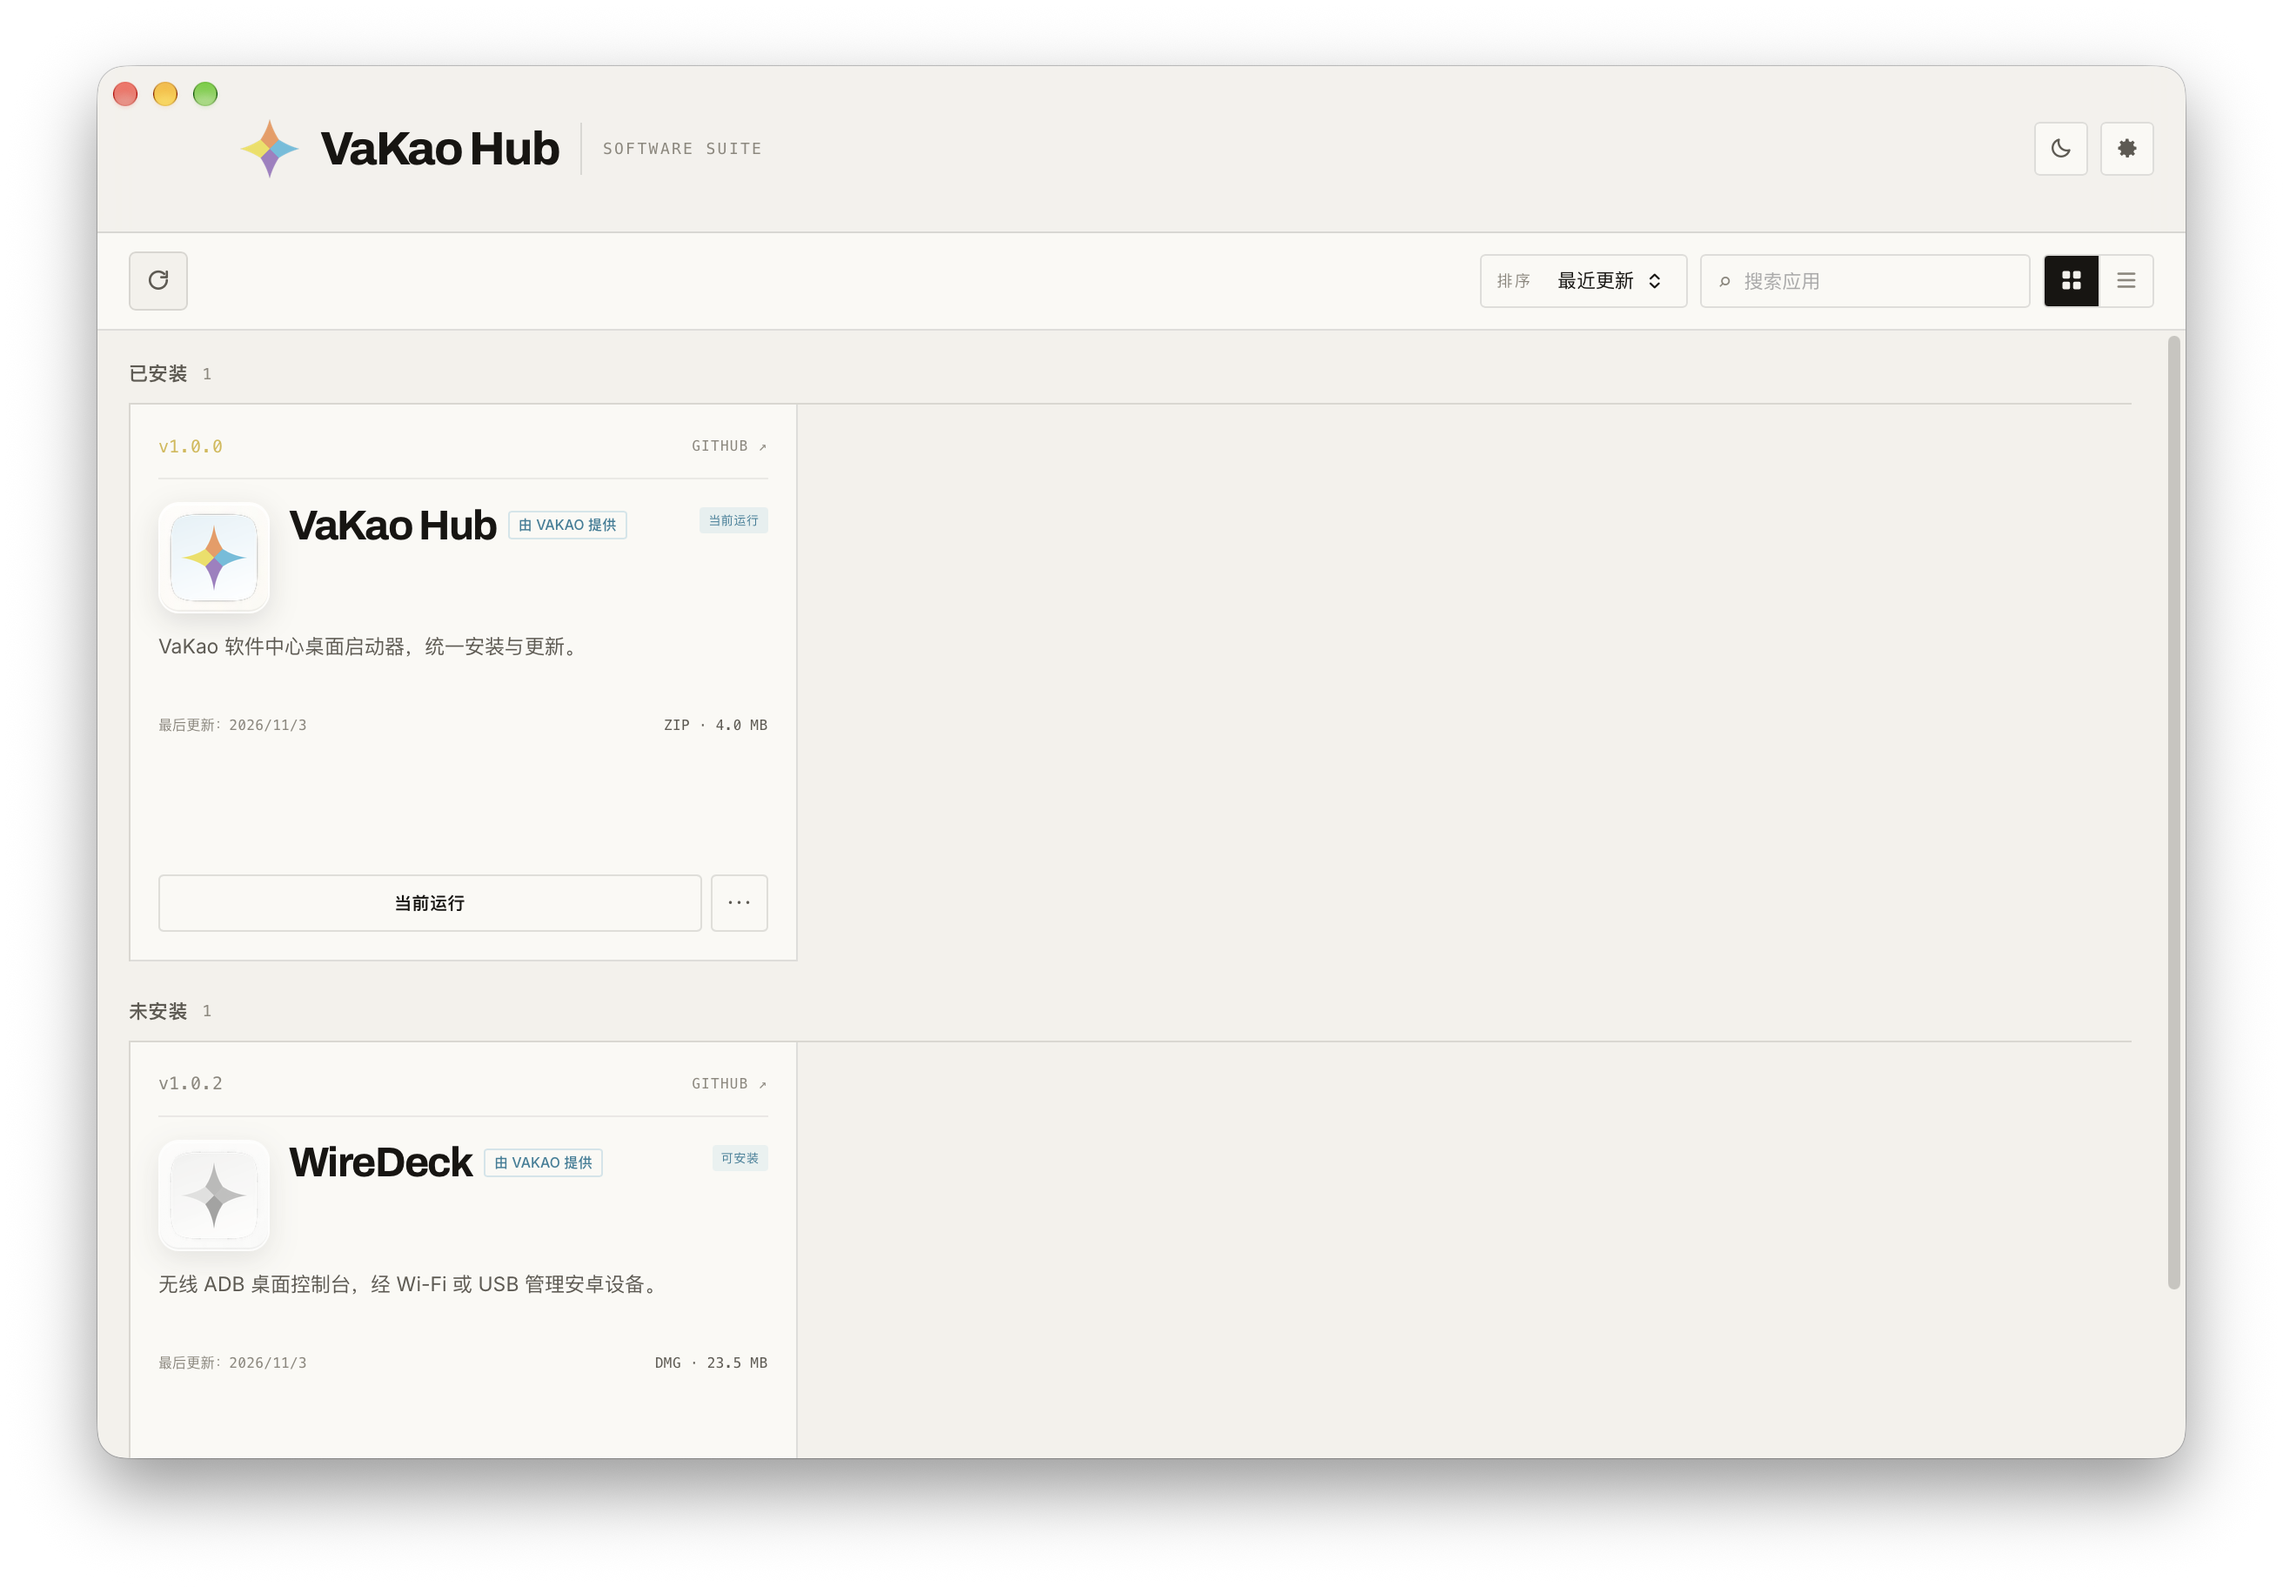
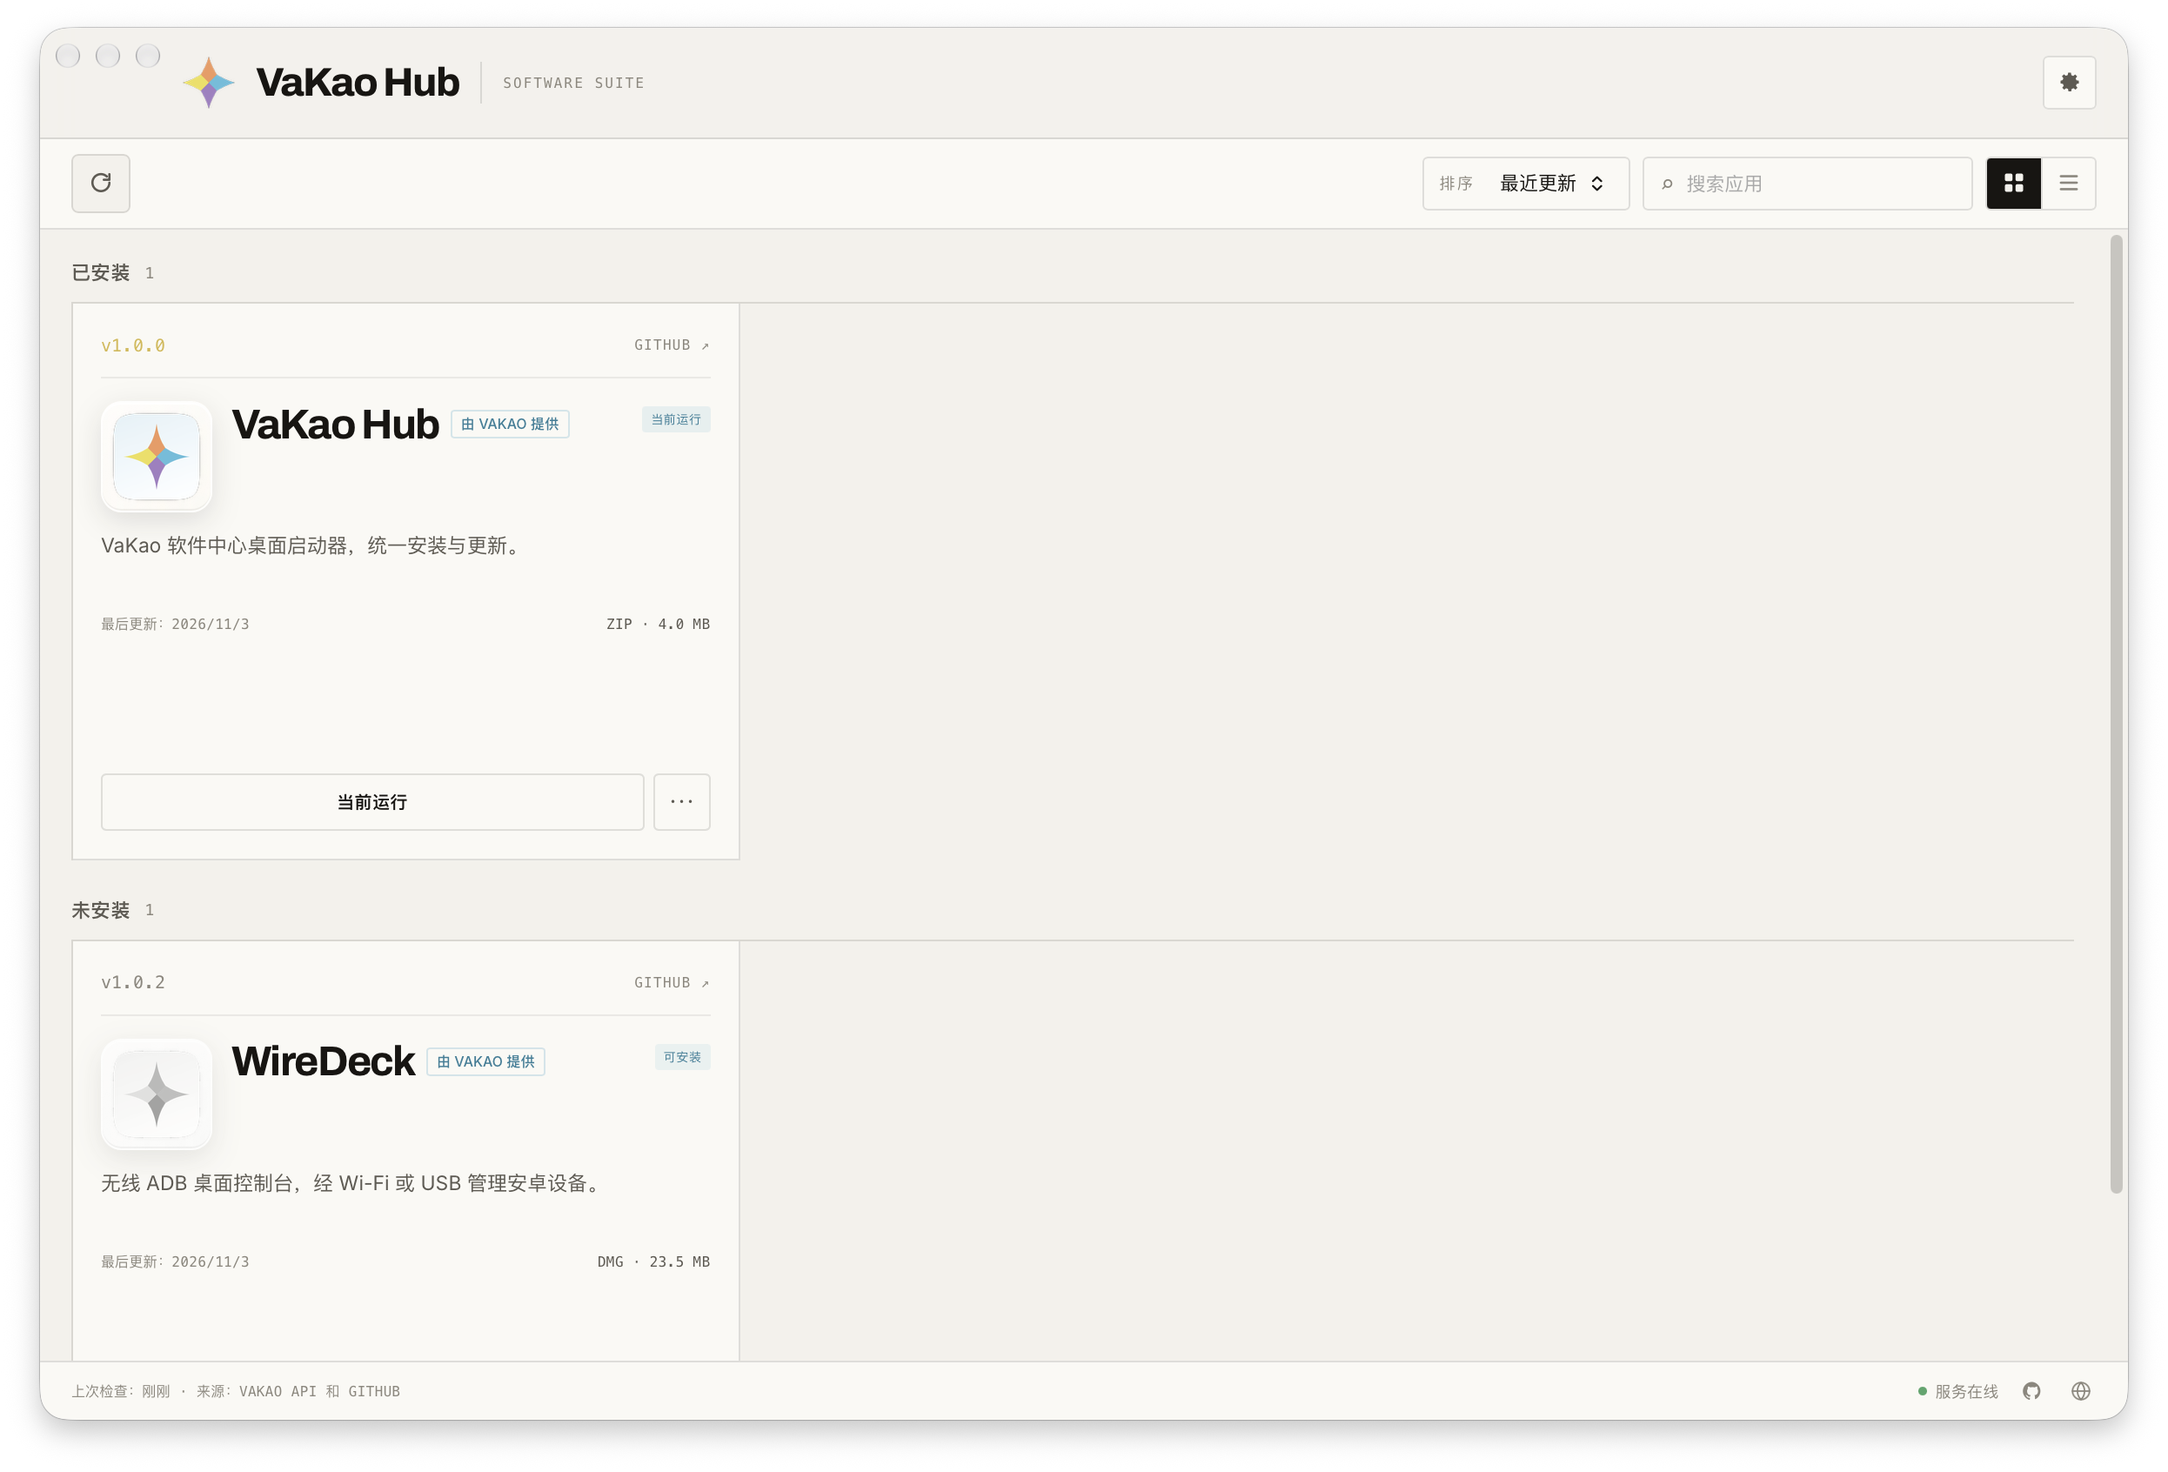
style(launcher): compact header and add status bar

diff --git a/packages/launcher/frontend/src/App.vue b/packages/launcher/frontend/src/App.vue
@@ -11,21 +11,6 @@
       </div>
 
       <div class="masthead-actions">
-        <button
-          class="icon-btn theme-toggle"
-          :title="theme === 'dark' ? '切换到浅色' : '切换到深色'"
-          :aria-label="theme === 'dark' ? '切换到浅色' : '切换到深色'"
-          @click="toggleTheme"
-        >
-          <svg v-if="theme === 'dark'" viewBox="0 0 16 16" aria-hidden="true">
-            <circle cx="8" cy="8" r="3.1" />
-            <path d="M8 1.4v1.7M8 12.9v1.7M1.4 8h1.7M12.9 8h1.7M3.3 3.3l1.2 1.2M11.5 11.5l1.2 1.2M12.7 3.3l-1.2 1.2M4.5 11.5l-1.2 1.2" />
-          </svg>
-          <svg v-else viewBox="0 0 16 16" aria-hidden="true">
-            <path d="M13.4 9.5A5.6 5.6 0 0 1 6.5 2.6 5.6 5.6 0 1 0 13.4 9.5Z" />
-          </svg>
-        </button>
-
         <button class="icon-btn" title="设置" @click="openSettings">
           <svg viewBox="0 0 16 16" aria-hidden="true">
             <path d="M8 5.2A2.8 2.8 0 1 0 8 10.8 2.8 2.8 0 0 0 8 5.2Zm6 3.9v-1.8l-1.6-.3a4.7 4.7 0 0 0-.5-1.2l1-1.3-1.3-1.3-1.3 1a4.7 4.7 0 0 0-1.2-.5L8.8 2H7l-.3 1.6a4.7 4.7 0 0 0-1.2.5l-1.3-1L2.9 4.4l1 1.3a4.7 4.7 0 0 0-.5 1.2L2 7.3v1.8l1.6.3c.1.4.3.9.5 1.2l-1 1.3 1.3 1.3 1.3-1c.4.2.8.4 1.2.5l.3 1.6h1.8l.3-1.6c.4-.1.9-.3 1.2-.5l1.3 1 1.3-1.3-1-1.3c.2-.4.4-.8.5-1.2l1.6-.3Z" />
@@ -387,6 +372,28 @@
       </section>
     </div>
 
+    <footer class="status-bar">
+      <span class="status-copy">
+        上次检查：{{ lastCheckedLabel }} · 来源：VAKAO API 和 GITHUB
+      </span>
+      <div class="status-actions">
+        <span class="service-state" :class="{ offline: !serviceOnline }">
+          <i></i>{{ serviceOnline ? '服务在线' : '服务离线' }}
+        </span>
+        <button title="GitHub" @click="openUrl('https://github.com/Rouarn/VakaoHub')">
+          <svg viewBox="0 0 16 16" aria-hidden="true">
+            <path d="M8 1.5a6.5 6.5 0 0 0-2.1 12.7c.3 0 .4-.1.4-.3v-1.2c-1.7.4-2.1-.7-2.1-.7-.3-.7-.7-.9-.7-.9-.6-.4.1-.4.1-.4.6 0 1 .6 1 .6.6 1 1.5.7 1.9.5.1-.4.2-.7.4-.9-1.3-.1-2.6-.7-2.6-2.9 0-.6.2-1.2.6-1.6-.1-.1-.3-.8.1-1.6 0 0 .5-.2 1.7.6a5.8 5.8 0 0 1 3 0c1.2-.8 1.7-.6 1.7-.6.4.8.2 1.5.1 1.6.4.4.6 1 .6 1.6 0 2.2-1.3 2.8-2.6 2.9.2.2.4.5.4 1v1.5c0 .2.1.3.4.3A6.5 6.5 0 0 0 8 1.5Z" />
+          </svg>
+        </button>
+        <button title="帮助文档" @click="openUrl('https://github.com/Rouarn/VakaoHub#readme')">
+          <svg viewBox="0 0 16 16" aria-hidden="true">
+            <circle cx="8" cy="8" r="6" />
+            <path d="M2 8h12M8 2c1.7 1.7 2.5 3.8 2.5 6S9.7 12.3 8 14c-1.7-1.7-2.5-3.8-2.5-6S6.3 3.7 8 2Z" />
+          </svg>
+        </button>
+      </div>
+    </footer>
+
     <div v-if="settingsVisible" class="settings-overlay" @click.self="settingsVisible = false">
       <section class="settings-window" role="dialog" aria-modal="true" aria-label="设置">
         <header class="settings-head">
@@ -629,9 +636,22 @@ const scrollThumbTop = ref(0);
 const screenIndex = ref(0);
 const showAllChanges = ref(false);
 const serviceOnline = ref(true);
+const lastCheckedAt = ref(0);
+const now = ref(Date.now());
 
 const installedCount = computed(() => apps.value.filter((app) => app.installed).length);
 const updateCount = computed(() => apps.value.filter((app) => app.hasUpdate).length);
+
+const lastCheckedLabel = computed(() => {
+  if (!lastCheckedAt.value) return '尚未检查';
+  const seconds = Math.max(0, Math.floor((now.value - lastCheckedAt.value) / 1000));
+  if (seconds < 60) return '刚刚';
+  const minutes = Math.floor(seconds / 60);
+  if (minutes < 60) return `${minutes} 分钟前`;
+  const hours = Math.floor(minutes / 60);
+  if (hours < 24) return `${hours} 小时前`;
+  return new Date(lastCheckedAt.value).toLocaleDateString('zh-CN');
+});
 const platformLabel = computed(() => {
   const labels: Record<string, string> = {
     darwin: 'macOS',
@@ -724,6 +744,7 @@ const remainingChanges = computed(() =>
 
 let client: ReturnType<typeof appApi> | null = null;
 let refreshTimer: number | undefined;
+let clockTimer: number | undefined;
 
 function api(): ReturnType<typeof appApi> {
   if (!client) client = appApi();
@@ -748,6 +769,8 @@ async function load(): Promise<void> {
     serviceOnline.value = false;
   } finally {
     loading.value = false;
+    lastCheckedAt.value = Date.now();
+    now.value = Date.now();
     (window as Window & { __vakaoHideSplash?: () => void }).__vakaoHideSplash?.();
     if (!initialScrollDone) {
       initialScrollDone = true;
@@ -1191,6 +1214,9 @@ onMounted(() => {
   runtime?.EventsOn('install:progress', onProgress);
 
   restartRefreshTimer();
+  clockTimer = window.setInterval(() => {
+    now.value = Date.now();
+  }, 30 * 1000);
 
   systemThemeMedia = window.matchMedia('(prefers-color-scheme: dark)');
   systemThemeMedia.addEventListener('change', onSystemThemeChange);
@@ -1198,6 +1224,7 @@ onMounted(() => {
 
 onUnmounted(() => {
   if (refreshTimer) window.clearInterval(refreshTimer);
+  if (clockTimer) window.clearInterval(clockTimer);
   systemThemeMedia?.removeEventListener('change', onSystemThemeChange);
   window.removeEventListener('click', closeMenu);
   window.removeEventListener('keydown', onKeydown);

diff --git a/packages/launcher/frontend/src/style.css b/packages/launcher/frontend/src/style.css
@@ -103,7 +103,7 @@ button {
   justify-content: space-between;
   gap: 18px;
   flex: none;
-  height: 96px;
+  height: 64px;
   padding: 0 18px 0 82px;
   border-bottom: 1px solid var(--line);
   background: rgba(243, 241, 236, 0.92);
@@ -126,8 +126,8 @@ button {
 }
 
 .brand-star {
-  width: 34px;
-  height: 34px;
+  width: 30px;
+  height: 30px;
   object-fit: contain;
   flex: none;
 }
@@ -140,21 +140,21 @@ button {
 
 .brand-name strong {
   font-family: var(--display);
-  font-size: 27px;
+  font-size: 23px;
   font-weight: 760;
   letter-spacing: -0.035em;
 }
 
 .brand-divider {
   width: 1px;
-  height: 30px;
+  height: 24px;
   flex: none;
   background: var(--line);
 }
 
 .brand-tag {
   font-family: var(--mono);
-  font-size: 9px;
+  font-size: 8px;
   letter-spacing: 0.13em;
   color: var(--faint);
   white-space: nowrap;
@@ -165,7 +165,7 @@ button {
   align-items: center;
   gap: 9px;
   flex: none;
-  height: 56px;
+  height: 52px;
   padding: 0 18px;
   border-bottom: 1px solid var(--line);
   background: var(--raised);
@@ -2275,4 +2275,73 @@ button {
 .app-card:not(.is-installed) .action:hover {
   border-color: var(--strong);
   background: var(--strong);
+}
+
+
+/* ---------- status bar ---------- */
+
+.status-bar {
+  display: flex;
+  align-items: center;
+  justify-content: space-between;
+  gap: 14px;
+  flex: none;
+  height: 34px;
+  padding: 0 18px;
+  border-top: 1px solid var(--line);
+  background: var(--raised);
+  color: var(--faint);
+  font-family: var(--mono);
+  font-size: 8px;
+  letter-spacing: 0.02em;
+}
+
+.status-copy {
+  min-width: 0;
+  overflow: hidden;
+  white-space: nowrap;
+  text-overflow: ellipsis;
+}
+
+.status-actions {
+  display: flex;
+  align-items: center;
+  gap: 10px;
+  flex: none;
+}
+
+.status-actions .service-state {
+  font-family: var(--body);
+  font-size: 9px;
+}
+
+.status-actions button {
+  display: inline-flex;
+  align-items: center;
+  justify-content: center;
+  width: 18px;
+  height: 18px;
+  padding: 0;
+  border: 0;
+  background: transparent;
+  color: var(--faint);
+}
+
+.status-actions button:hover {
+  color: var(--ink);
+}
+
+.status-actions svg {
+  width: 13px;
+  height: 13px;
+  fill: none;
+  stroke: currentColor;
+  stroke-width: 1.1;
+  stroke-linecap: round;
+  stroke-linejoin: round;
+}
+
+.status-actions button:first-of-type svg {
+  fill: currentColor;
+  stroke: none;
 }

diff --git a/packages/website/index.html b/packages/website/index.html
@@ -66,7 +66,7 @@
           <div class="hero-visual" aria-hidden="true">
             <div class="visual-grid"></div>
             <div class="window">
-              <img src="./assets/screens/launcher.png?v=20261103p" alt="" />
+              <img src="./assets/screens/launcher.png?v=20261103q" alt="" />
             </div>
             <div class="float-card">
               <span class="hud">LIVE / CATALOG</span>
@@ -183,7 +183,7 @@
             <a class="button" href="#apps">下载启动器 <span aria-hidden="true">↗</span></a>
           </div>
           <figure class="inside-visual">
-            <img src="./assets/screens/launcher.png?v=20261103p" alt="VaKao Hub 启动器界面" />
+            <img src="./assets/screens/launcher.png?v=20261103q" alt="VaKao Hub 启动器界面" />
           </figure>
         </section>
       </main>
